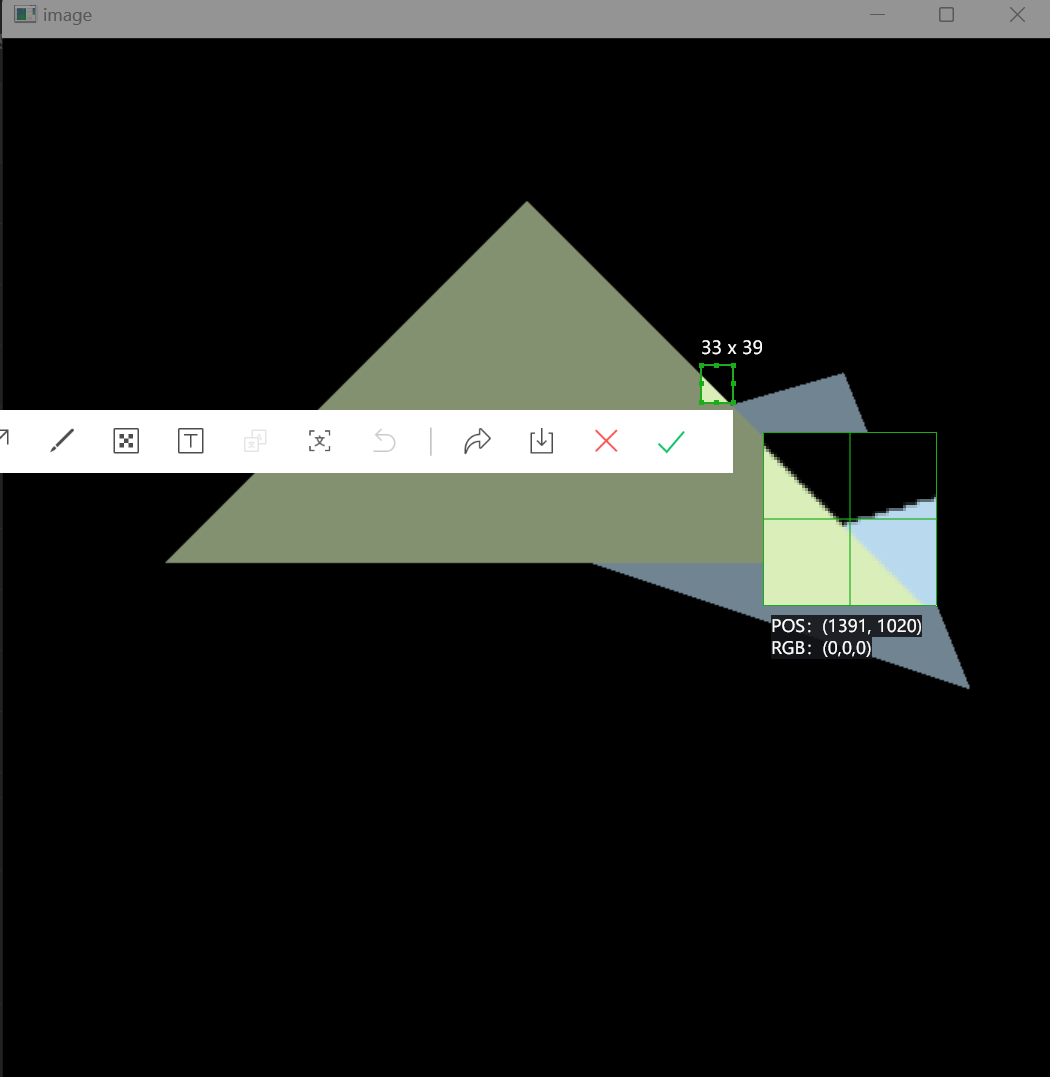
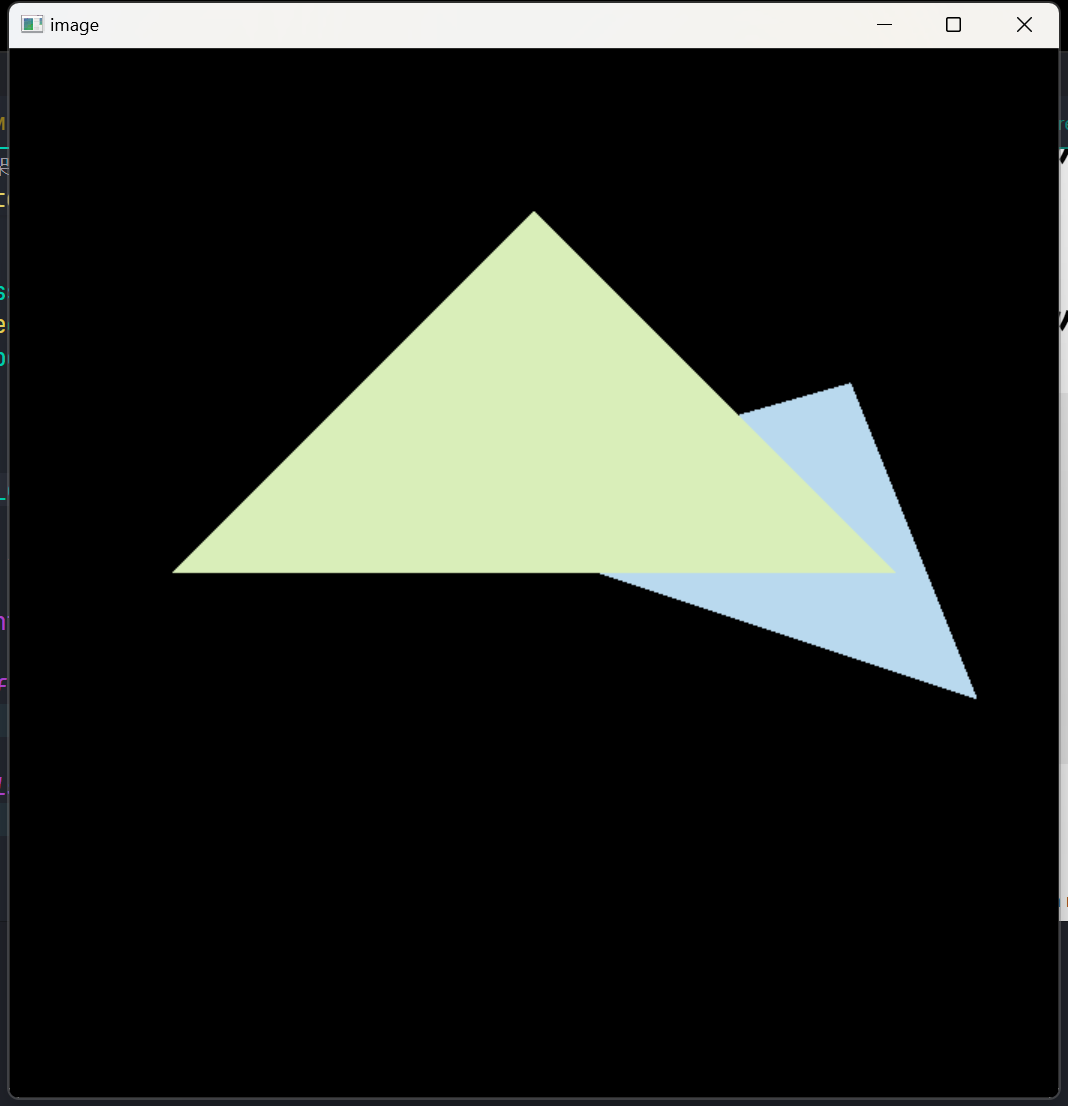
fix msaa darker issue

Changed region(s): [[0.0, 0.0, 1.0, 1.0]]

diff --git a/Source/Assignment2/代码框架/rasterizer.cpp b/Source/Assignment2/代码框架/rasterizer.cpp
@@ -174,10 +174,8 @@ void rst::rasterizer::rasterize_triangle(const Triangle& t) {
         int index = get_index(x, y) * 4;
         const float depth_max = std::numeric_limits<float>::infinity();
         float min_depth = depth_max;
-        int pass_count = 0;
-        const int sample_count = 4;
 
-        for(int i =0; i< 2; ++i)
+        for(int i = 0; i< 2; ++i)
         {
             idx_x = steps_x[i] + x;
             for(int j = 0; j < 2; ++j)
@@ -185,21 +183,22 @@ void rst::rasterizer::rasterize_triangle(const Triangle& t) {
                 idx_y = steps_y[j] + y;
                 if(insideTriangle(idx_x, idx_y, t.v)){
                     float new_z = calc_interpolated_z(idx_x, idx_y);
-                    int buff_index = index+i+j;
+                    int buff_index = index + i * 2 + j;
                     if(new_z < depth_buf_msaa[buff_index])
                     {
                         depth_buf_msaa[buff_index] = new_z;
-                        frame_buf_msaa[buff_index] = t.getColor() / 4;
-                        min_depth = new_z < min_depth ? new_z: min_depth;
-                        ++pass_count;
+                        frame_buf_msaa[buff_index] = t.getColor();
+                        if(new_z < min_depth)
+                        {
+                            min_depth = new_z;
+                        }
                     }
                 }
-
             }
         }
-        if(pass_count != 0){
-            Vector3f color = frame_buf_msaa[index] + frame_buf_msaa[index+1] + frame_buf_msaa[index+2]+ frame_buf_msaa[index+3];
-            update_depth_and_color(x, y, min_depth, color, false);
+        if(min_depth != depth_max){
+            Vector3f color = frame_buf_msaa[index] + frame_buf_msaa[index+1] + frame_buf_msaa[index+2] + frame_buf_msaa[index+3];
+            update_depth_and_color(x, y, min_depth, 0.25f * color, false);
         }
     };
 

diff --git a/doc/Note.md b/doc/Note.md
@@ -9,8 +9,8 @@
   * 没有比较特殊的问题。
 
 ## 作业2
-> 图示: 图1没有使用MSAA,有明显锯齿；图2错误的MSAA，未记录子像素颜色和深度，有黑边；图3, MSAA, 锯齿缓解，无黑边。
-![没有supersampling](./hw2.png "没有supersampling"){:height="25%" width="25%"} ![MSAA但有黑边](./hw2withblackbounder.png "MSAA但有黑边"){:height="25%" width="25%"} ![MSAA正常](./hw2massright.png "正常情况"){:height="25%" width="25%"}
+> <img src="./hw2.png" width = "25%" height = "25%" alt="没有MSAA" align=center />&emsp;<img src="./hw2withblackbounder.png" width = "25%" height = "25%" alt="MSAA但有黑边" align=center />&emsp;<img src="./hw2massright.png" width = "25%" height = "25%" alt="MSAA正常" align=center />
+图示: 图1没有使用MSAA,有明显锯齿；图2错误的MSAA，未记录子像素颜色和深度，有黑边；图3, MSAA, 锯齿缓解，无黑边。
 
 
 1. 画出来的两个三角形堆叠先后与效果图相反?
